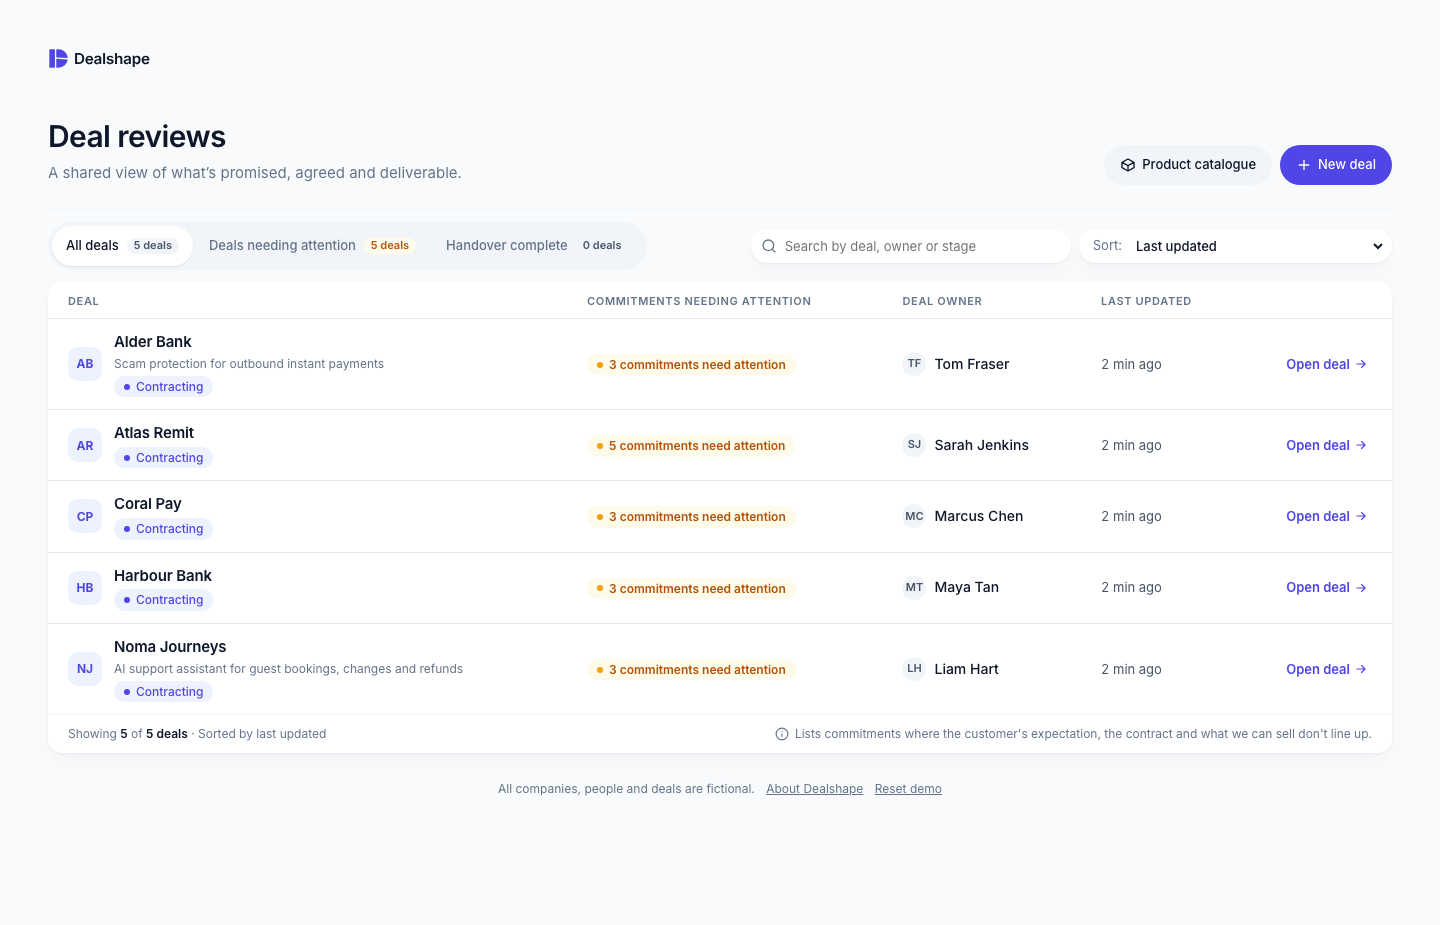
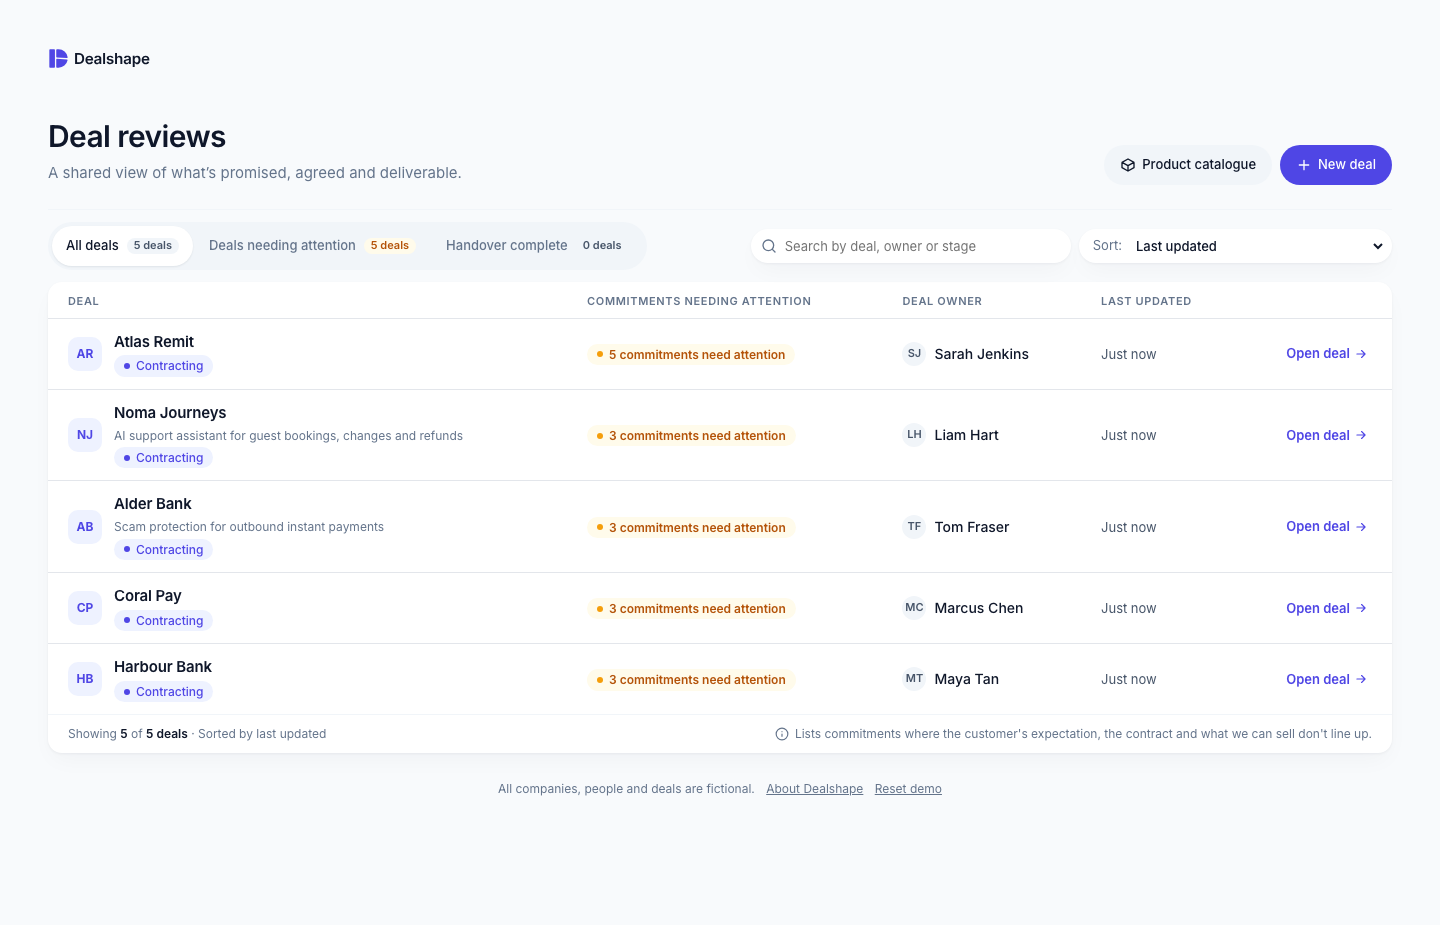
Phone deal list as cards; public list fixed Noma then Alder; tests 820/208

diff --git a/frontend/src/Deals.jsx b/frontend/src/Deals.jsx
@@ -107,7 +107,8 @@ export default function Deals({ deals, onOpen, onCreated, onAbout }) {
   const vendors = useMemo(() => vendorsOf(deals), [deals]);
   const open = (d) => { if (d.vendor) rememberVendor(d.vendor); onOpen(d.deal); }; // the catalogue switch opens on the vendor of the deal opened last
   const n = useMemo(() => counts(deals), [deals]);
-  const rows = useMemo(() => visibleDeals(deals, { filter, query, sort }), [deals, filter, query, sort]);
+  // Public mode keeps the server's fixed order (Noma Journeys, then Alder Bank); otherwise the chosen filter, search and sort apply.
+  const rows = useMemo(() => (demo.public ? deals : visibleDeals(deals, { filter, query, sort })), [deals, filter, query, sort, demo.public]);
   const shown = page(rows, pageNo);
   const sortLabel = SORTS.find((s) => s.key === sort)?.label.toLowerCase();
 
@@ -209,6 +210,23 @@ export default function Deals({ deals, onOpen, onCreated, onAbout }) {
             </tbody>
           </table>
         </div>
+        {/* Below 640px (11 Nov) the table gives way to one stacked card per deal: the whole card opens the deal. */}
+        <ul className="dl-cards" aria-label="Deals">
+          {shown.rows.map((d) => (
+            <li key={d.deal}>
+              <button type="button" className={`dl-card ${d.handover_complete ? "is-frozen" : ""}`} onClick={() => open(d)}>
+                <span className="dl-tile" aria-hidden="true">{initials(d.name)}</span>
+                <span className="dl-card-body">
+                  <span className="dl-deal-name">{d.name}{d.kind === "user" && <span className="dl-tag">Uploaded</span>}</span>
+                  {d.scope && <span className="dl-scope-line">{d.scope}</span>}
+                  <span className="dl-card-pills"><StagePill deal={d} /><GapPill deal={d} /></span>
+                </span>
+                <span className="dl-card-go" aria-hidden="true"><Icon d={ICONS.arrow} size={16} /></span>
+              </button>
+            </li>
+          ))}
+          {shown.rows.length === 0 && <li className="dl-cards-empty">{query ? "No deals match that search." : "No deals here yet."}</li>}
+        </ul>
         <footer className="dl-foot">
           {!demo.public && (
             <span>

diff --git a/frontend/src/Deals.css b/frontend/src/Deals.css
@@ -89,6 +89,21 @@ body:has(.dl) { background: #f8fafc; }
   .dl-sort select { flex: 1; min-width: 0; width: 100%; text-overflow: ellipsis; }
 }
 
+/* Narrow screens (11 Nov): the table is replaced by one stacked card per deal, the whole card tappable. Desktop keeps the table. */
+.dl-cards { display: none; list-style: none; margin: 0; padding: 0; }
+@media (max-width: 639px) {
+  .dl-scroll { display: none; }
+  .dl-cards { display: block; }
+  .dl-cards > li { border-top: 1px solid var(--dl-hair); }
+  .dl-card { display: flex; align-items: flex-start; gap: 12px; width: 100%; box-sizing: border-box; padding: 14px 16px; border: 0; background: transparent; font: inherit; text-align: left; color: inherit; cursor: pointer; }
+  .dl-card:hover, .dl-card:active { background: var(--dl-soft); }
+  .dl-card:focus-visible { outline: 2px solid var(--dl-accent); outline-offset: -2px; }
+  .dl-card-body { flex: 1; min-width: 0; display: flex; flex-direction: column; align-items: flex-start; gap: 4px; }
+  .dl-card-pills { display: flex; flex-wrap: wrap; align-items: center; gap: 6px 8px; margin-top: 2px; }
+  .dl-card-go { flex: none; align-self: center; color: var(--dl-muted); display: inline-flex; }
+  .dl-cards-empty { padding: 28px 16px; text-align: center; color: var(--dl-faint); }
+}
+
 /* One list card: hairline rows, quiet uppercase column labels */
 .dl-table-card { background: var(--dl-card); border-radius: 14px; box-shadow: var(--dl-shadow); overflow: hidden; }
 .dl-scroll { overflow-x: auto; position: relative; } /* 11 Nov: the hidden "Action" header text is positioned, so it stays inside the scroller and no longer widens the page at 390px */

diff --git a/tests/test_public_demo.py b/tests/test_public_demo.py
@@ -111,6 +111,25 @@ class TestOnlyTwoDealsInPublicMode(Case):
             self.assertEqual(local.get(f"/api/deals/{deal}/register").status_code, 200, deal)
 
 
+class TestPublicDealOrder(Case):
+    def test_the_public_deal_list_is_always_noma_journeys_then_alder_bank(self):
+        order = lambda c: [d["deal"] for d in c.get("/api/workspace/deals").json()["deals"]]
+        self.assertEqual(self.client.get("/api/deals").json()["deals"], ["noma_journeys", "alder_bank"])
+        self.assertEqual(order(self.client), ["noma_journeys", "alder_bank"])
+        # whoever changed what last does not move them: a change on Noma makes it newest, then one on Alder makes Alder newest
+        self.assertEqual(self.add_sample("noma_journeys", "NJ-05_v2_named_exception.md").status_code, 200)
+        self.assertEqual(self.add_sample("alder_bank", "AB-05_v2_named_exception.md").status_code, 200)
+        self.assertEqual(order(self.client), ["noma_journeys", "alder_bank"])
+        self.post("/api/demo/reset", {})
+        self.assertEqual(order(self.client), ["noma_journeys", "alder_bank"])  # and after a reset
+
+    def test_local_mode_keeps_its_own_order_newest_first(self):
+        local = self.make(False)
+        self.assertEqual(self.add_sample("alder_bank", "AB-05_v2_named_exception.md").status_code, 200)
+        first = local.get("/api/workspace/deals").json()["deals"][0]["deal"]
+        self.assertEqual(first, "alder_bank")  # the deal changed last is first, as before
+
+
 class TestConfigAndHosts(Case):
     def test_the_banner_and_note_cap_are_reported_only_in_public_mode(self):
         on = self.client.get("/api/demo/config").json()

diff --git a/api.py b/api.py
@@ -359,7 +359,10 @@ def create_app(dist_dir: Path = DIST_DIR, ledger_path=None, public=None, hourly=
         rows = workspace.deal_list(conn)
         if public:
             rows = [r for r in rows if r["deal"] in ui_deals]
-        return {"deals": handover.deal_rows(conn, rows)}
+        out = handover.deal_rows(conn, rows)
+        if public:  # a fixed order, whoever changed what last: Noma Journeys, then Alder Bank
+            out.sort(key=lambda d: ui_deals.index(d["deal"]))
+        return {"deals": out}
 
     @app.post("/api/user-deals", dependencies=[Depends(write_guard)])
     def ws_create_deal(body: dict = Body(...), conn=Depends(db)):

diff --git a/public_demo.py b/public_demo.py
@@ -14,7 +14,7 @@ from pathlib import Path
 
 import config
 
-PUBLIC_DEALS = ["alder_bank", "noma_journeys"]
+PUBLIC_DEALS = ["noma_journeys", "alder_bank"]  # also the order the public deal list shows them in: Noma Journeys first
 BANNER = "Public demo · fictional data · shared with other visitors. If this deal has already been worked through, click Reset demo."
 NOTE_MAX = 500
 NOTE_FIELDS = ("note", "reason", "rationale", "evidence")

diff --git a/DECISIONS.md b/DECISIONS.md
@@ -1430,3 +1430,9 @@ No change to detection, readings, rules, recheck, the ledger build or `data/scen
 - **Guided samples:** the same numbered list from every row; only the next unused sample has an active "Add and check", later ones read "After step N", used ones "Added". "Used" is read from the deal's documents (a version sample once its document is past v1; a signed-contract sample once one exists), so a reset puts it back at step 1. After the last: "All samples added. Next: record a note on the phone row (Alder: hosting row), then complete the handover."
 
 - **Checked:** Python 818 tests OK (814 + 4 in `tests/test_polish.py`), frontend 205 pass (192 + 13 in `tests/polish.test.mjs`; eight pinned wordings updated). SHA-256 before and after: the ledger-build files, `extraction_cache.py`, the contents of `results/v2_cache`, `detect_v2.py`, `integrity.config_sha256(3)`, `api.py`, your real `workspace/ledger.sqlite` and all of `data/scenarios/` unchanged; `workspace.py` changed (read-time). Screenshots at 1440px and 390px in both modes in `docs/screens/2026-11-11/`, from scratch ledgers.
+
+## 2026-11-11 (later): deal list as cards on narrow screens; fixed public order
+
+- **Cards below 640px, both modes:** the table was clipped at 390px (it scrolled sideways inside its card, with only the deal name visible). Below 640px each deal is now a stacked card: tile, name, short description, stage, attention count, and an arrow; the whole card is one button, so tapping anywhere opens the deal. The table is unchanged at 640px and above (the cards are hidden by default and the table is hidden only inside the narrow media query). Local mode keeps its tabs, search and sort above the cards.
+- **Public order:** Noma Journeys first, then Alder Bank, set by the server (`public_demo.PUBLIC_DEALS`, applied to `/api/workspace/deals`), so it does not move when a deal is changed or the demo is reset; the public list no longer sorts by last updated. Local mode still lists the deal changed last first.
+- **Checked:** Python 820 tests OK (818 + 2), frontend 208 pass (205 + 3 in `tests/deal_cards.test.mjs`). Screenshots at 390px (and 1440px) in `docs/screens/2026-11-11/` (`public_deal_list_*`, `local_deal_list_*`).
